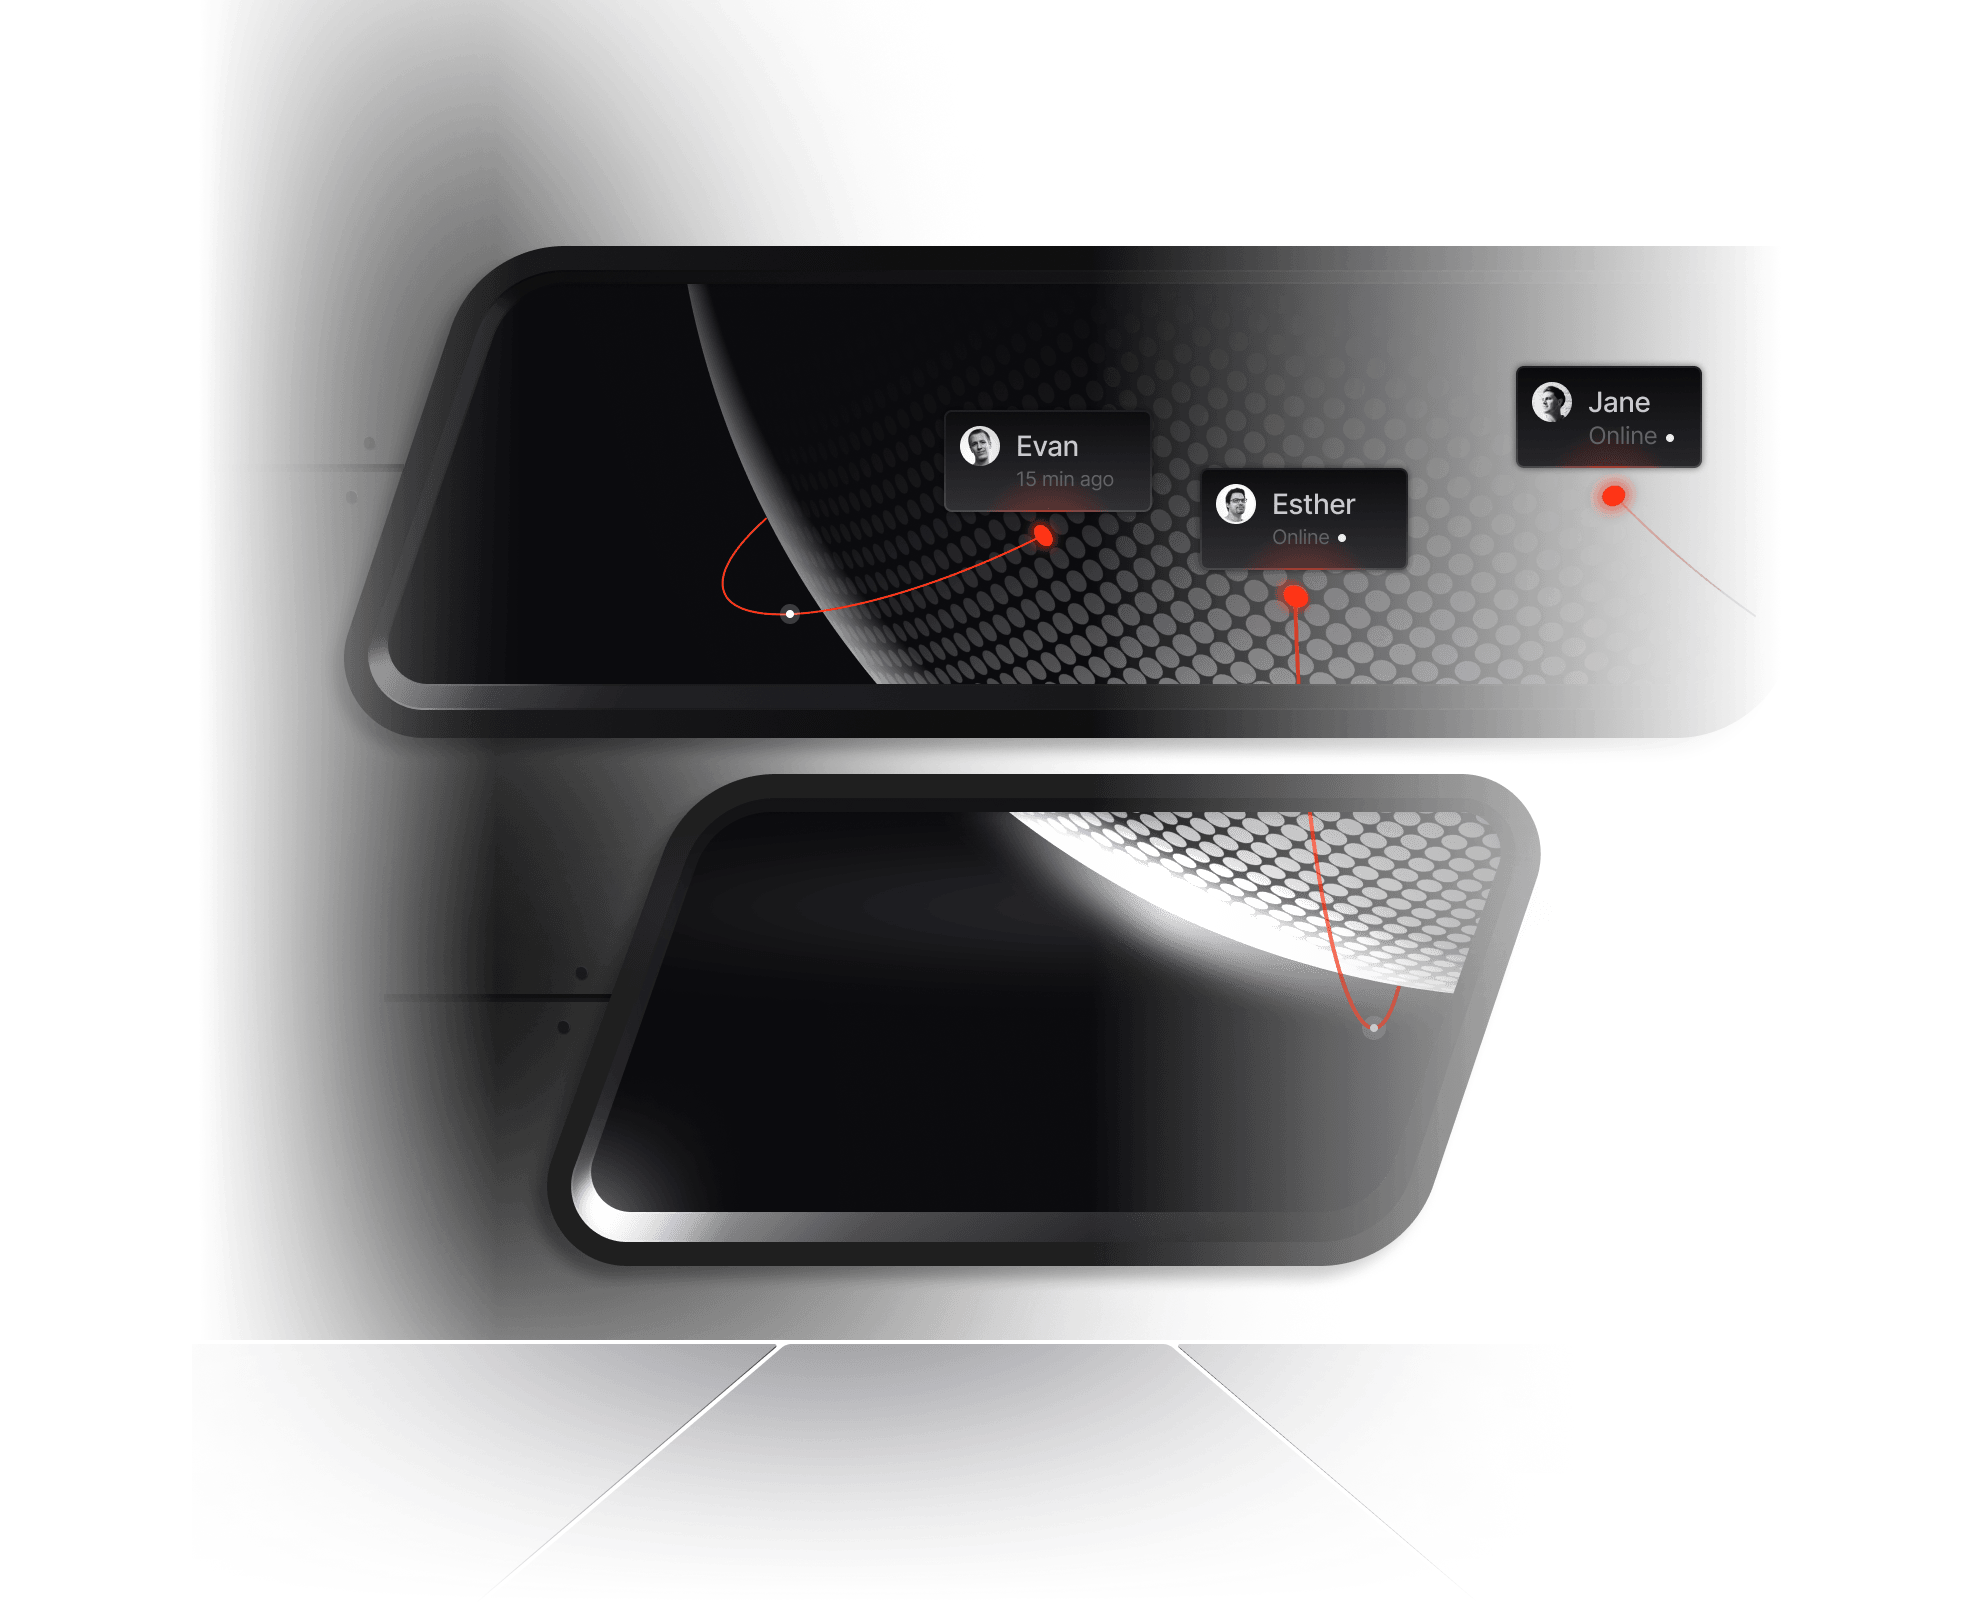
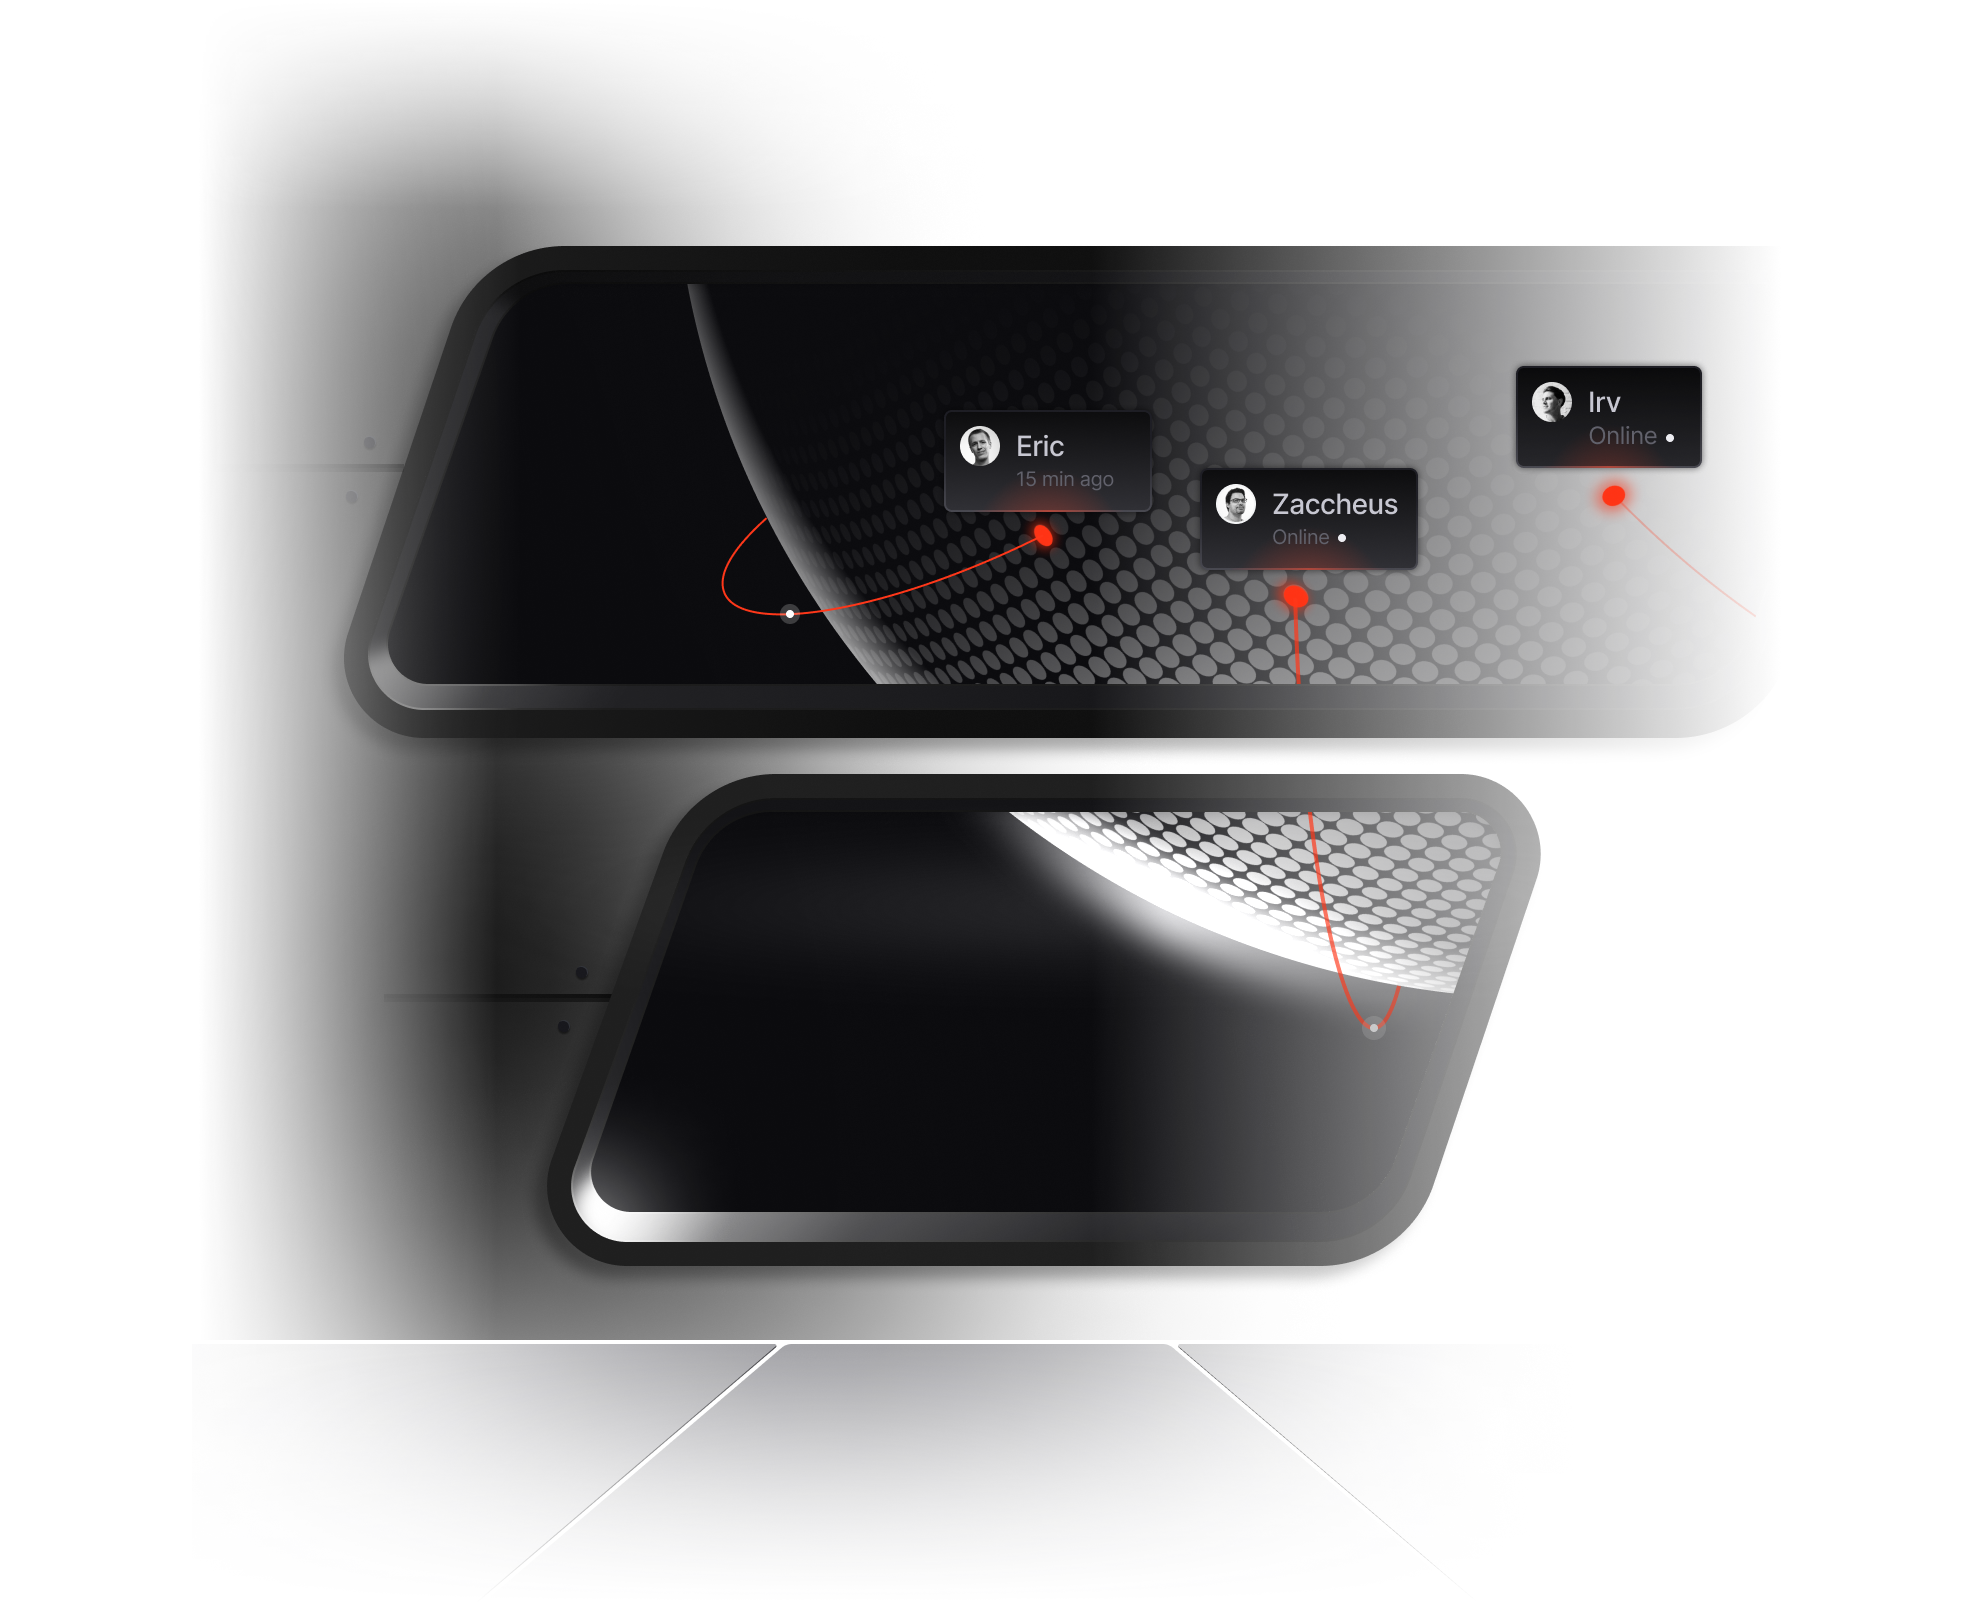
feat: return old contributors component

Changed region(s): [[0.125, 0.0, 0.3438, 0.1238], [0.6562, 0.2785, 0.7188, 0.3403]]

diff --git a/src/components/pages/community/contributors/contributors.tsx b/src/components/pages/community/contributors/contributors.tsx
@@ -1,32 +1,114 @@
 import Image from 'next/image';
 
-import contributorsImage from '@/images/pages/community/contributors/contributors.png';
+import CM from '@/images/country-svgs/CM.svg';
+import FR from '@/images/country-svgs/FR.svg';
+import SG from '@/images/country-svgs/SG.svg';
+import TH from '@/images/country-svgs/TH.svg';
+import US from '@/images/country-svgs/US.svg';
+import zSia from '@/images/pages/community/contributors/1.jpg';
+import aBaranwal from '@/images/pages/community/contributors/2.jpg';
+import eNarro from '@/images/pages/community/contributors/3.jpg';
+import gMaraboutDemazure from '@/images/pages/community/contributors/4.jpg';
+import jBBraun from '@/images/pages/community/contributors/5.jpg';
+import nDavid from '@/images/pages/community/contributors/6.jpg';
+import iLustig from '@/images/pages/community/contributors/7.jpg';
+import fPearl from '@/images/pages/community/contributors/8.jpg';
 
+// TODO: import real photos
+const teamListData = [
+  {
+    photo: zSia,
+    name: 'Zaccheus Sia',
+    position: 'Application Developer',
+    countryIcon: FR,
+  },
+  {
+    photo: aBaranwal,
+    name: 'Anmol Baranwal',
+    position: 'Software Developer & Open-Source Advocate',
+    countryIcon: SG,
+  },
+  {
+    photo: eNarro,
+    name: 'Eric Narro',
+    position: 'Data Analyst',
+    countryIcon: FR,
+  },
+  {
+    photo: gMaraboutDemazure,
+    name: 'Grégoire Marabout-Demazure',
+    position: 'CTO & Software Engineer',
+    countryIcon: FR,
+  },
+  {
+    photo: jBBraun,
+    name: 'Jean-Baptiste Braun',
+    position: 'Lead Data Engineer',
+    countryIcon: FR,
+  },
+  {
+    photo: nDavid,
+    name: 'Nevo David',
+    position: 'Full-stack engineer',
+    countryIcon: TH,
+  },
+  {
+    photo: iLustig,
+    name: 'Irv Lustig',
+    position: 'Certified Analytics Practitione',
+    countryIcon: US,
+  },
+  {
+    photo: fPearl,
+    name: 'Forcha Pearl',
+    position: 'Software Engineer',
+    countryIcon: CM,
+  },
+];
+// TODO: create shared component for that
 function Contributors() {
   return (
-    <section className="contributors mt-[150px] lg:mt-[116px] md:mt-[134px] sm:mt-[76px]">
-      <div className="container flex items-center lg:justify-around md:flex-wrap md:justify-center">
-        <div className="mt-3 max-w-lg lg:max-w-md md:mt-0 md:flex md:w-full md:max-w-[605px] md:flex-col md:items-center md:text-center">
-          <span className="inline-block leading-snug text-primary-red sm:text-14">
-            For the community
-          </span>
-          <h2 className="mt-3.5 text-48 font-medium leading-dense tracking-tight lg:text-40 md:mt-4 md:text-32 sm:mt-3.5 sm:text-28">
-            Built by the community
-          </h2>
-          <p className="mt-[18px] text-18 font-light tracking-snug text-grey-70 lg:text-16 lg:leading-snug sm:mt-[18px] sm:px-3 sm:text-14 sm:leading-normal">
-            They make Taipy better every day. Join them! Open-source is in the heart of Taipy. We
-            keep all the source code and work publicly available. Join our community driven project
-            with over 3,000+ developers from around the world who contribute code and help building
-            the modern notification infrastructure.
-          </p>
-        </div>
-        <Image
-          className="ml-[120px] shrink-0 lg:ml-8 lg:h-auto lg:w-[480px] md:ml-0 md:mt-10 md:w-auto sm:mt-8 sm:max-w-full"
-          src={contributorsImage}
-          width={639}
-          height={643}
-          alt=""
-        />
+    <section className="contributors mt-[180px] lg:mt-[142px] md:mt-[129px] sm:mt-[42px]">
+      <div className="container max-w-[984px] text-center lg:max-w-[942px] md:max-w-[682px]">
+        <span className="leading-snug text-primary-red sm:text-14">Shout out</span>
+        <h2 className="mt-5 text-48 font-medium leading-dense tracking-tight lg:text-40 md:text-32 sm:mt-3.5 sm:text-28">
+          Our dearest contributors
+        </h2>
+        <p className="mx-auto mt-4 text-18 font-light tracking-snug text-grey-70 lg:text-16 md:text-14 sm:mt-3">
+          They make Taipy better every day. Join them!
+        </p>
+        <ul className="mt-[70px] grid grid-cols-4 gap-x-6 gap-y-14 lg:mt-[62px] lg:gap-x-10 lg:gap-y-12 md:mt-[54px] md:grid-cols-3 md:gap-x-14 sm:mt-[46px] sm:grid-cols-2 sm:gap-x-4 sm:gap-y-10">
+          {teamListData.map(({ photo, name, position, countryIcon }, index) => (
+            <li className="flex flex-col items-center gap-[18px] md:gap-4 sm:gap-3" key={index}>
+              <Image
+                className="w-[72px] rounded-[8px] border border-grey-20 grayscale-[100%] filter sm:w-14"
+                width={72}
+                height={72}
+                src={photo}
+                alt={name}
+              />
+              <div className="flex flex-col gap-2 sm:max-w-[171px] sm:gap-1.5">
+                <span className="text-18 font-medium leading-tight tracking-snug md:text-16">
+                  {name}
+                  <span className="whitespace-nowrap">
+                    &nbsp;
+                    <img
+                      className="ml-1.5 inline w-3.5 md:ml-1"
+                      src={countryIcon}
+                      width={14}
+                      height={18}
+                      alt=""
+                      loading="lazy"
+                    />
+                  </span>
+                </span>
+                <p className="font-light leading-none tracking-snug text-grey-70 md:text-14 sm:text-13">
+                  {position}
+                </p>
+              </div>
+            </li>
+          ))}
+        </ul>
       </div>
     </section>
   );

diff --git a/src/app/(website)/community/page.tsx b/src/app/(website)/community/page.tsx
@@ -24,7 +24,7 @@ function Community() {
         className="mt-[186px] lg:mt-[142px] md:mt-[92px] sm:mt-[88px]"
       />
       <Contributors />
-      <CTA className="mt-[172px] lg:mt-[126px] md:mt-[122px] sm:mt-[86px]" />
+      <CTA className="mt-[184px] lg:mt-[146px] md:mt-[106px] sm:mt-[96px]" />
       <Benefits />
       <LatestPosts />
     </>
